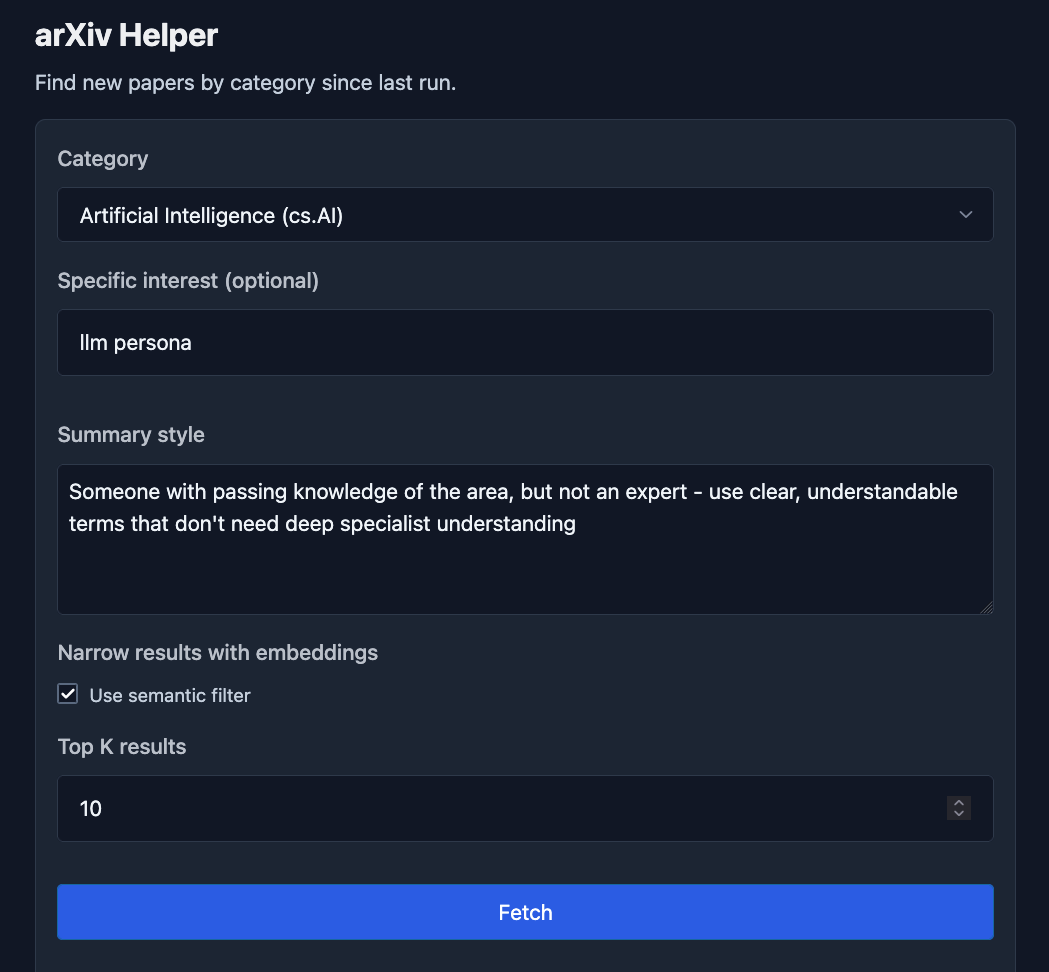
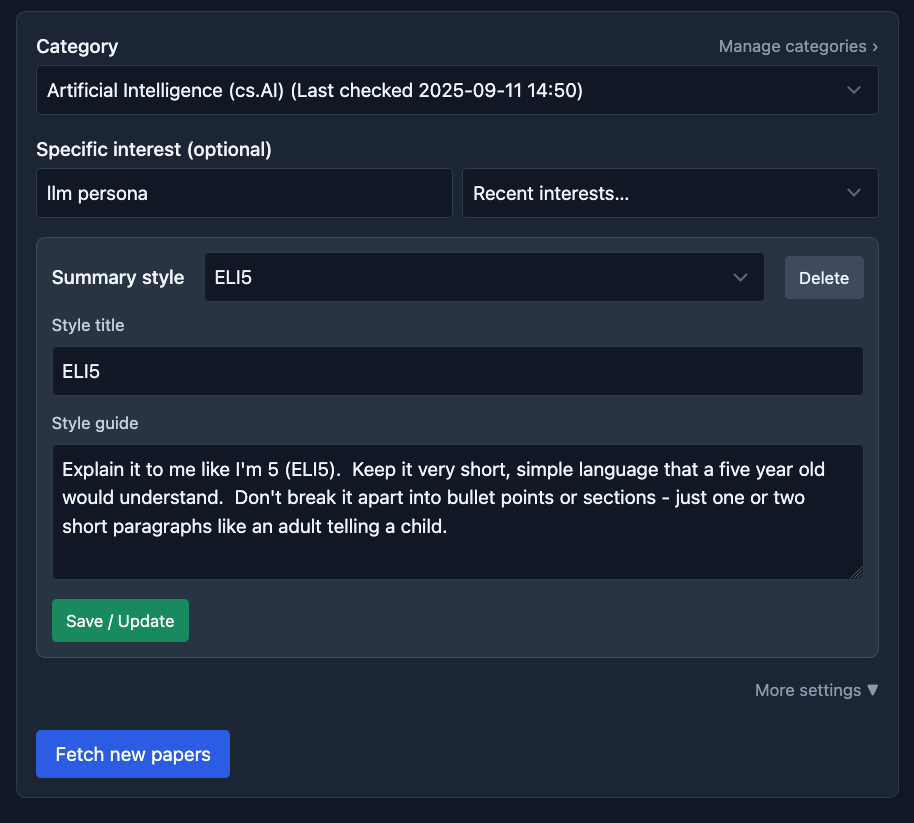
Save options

diff --git a/main.py b/main.py
@@ -190,7 +190,16 @@ def _find_style_index(styles: Dict[str, Any], title: str) -> Optional[int]:
     return None
 
 
-def _upsert_style(state: Dict[str, Any], title: str, body: str) -> None:
+def _upsert_style(
+    state: Dict[str, Any],
+    title: str,
+    body: str,
+    *,
+    verbosity: Optional[str] = None,
+    reasoning: Optional[str] = None,
+    use_embeddings: Optional[str] = None,
+    top_k: Optional[int] = None,
+) -> None:
     styles = _get_styles(state)
     items = styles.get("items")
     if not isinstance(items, list):
@@ -201,9 +210,32 @@ def _upsert_style(state: Dict[str, Any], title: str, body: str) -> None:
     if idx is not None:
         it = items[idx] if idx < len(items) else {}
         it = {**it, "title": title, "body": body, "ts": now_iso, "count": int(it.get("count", 0) or 0) + 1}
+        if verbosity is not None:
+            it["verbosity"] = verbosity
+        if reasoning is not None:
+            it["reasoning"] = reasoning
+        if use_embeddings is not None:
+            it["use_embeddings"] = use_embeddings
+        if top_k is not None:
+            try:
+                it["top_k"] = int(top_k)
+            except Exception:
+                pass
         items[idx] = it
     else:
-        items.insert(0, {"title": title, "body": body, "ts": now_iso, "count": 1})
+        new_item: Dict[str, Any] = {"title": title, "body": body, "ts": now_iso, "count": 1}
+        if verbosity is not None:
+            new_item["verbosity"] = verbosity
+        if reasoning is not None:
+            new_item["reasoning"] = reasoning
+        if use_embeddings is not None:
+            new_item["use_embeddings"] = use_embeddings
+        if top_k is not None:
+            try:
+                new_item["top_k"] = int(top_k)
+            except Exception:
+                pass
+        items.insert(0, new_item)
     _set_styles(state, styles)
 
 
@@ -675,7 +707,14 @@ def category_select(selected: str | None = None, last_checked_labels: Optional[D
 # ---------- Styles management (HTMX partials) ----------
 
 @rt("/styles/save")
-def styles_save(style_title_input: str = "", summary_style: str = ""):
+def styles_save(
+    style_title_input: str = "",
+    summary_style: str = "",
+    verbosity: str = "medium",
+    reasoning: str = "medium",
+    use_embeddings: str = "off",
+    top_k: str = "10",
+):
     state = _load_state()
     title = (style_title_input or "").strip()
     body = (summary_style or "").strip()
@@ -687,21 +726,46 @@ def styles_save(style_title_input: str = "", summary_style: str = ""):
     elif len(title) > 60:
         error = "Style title is too long (max 60 characters)."
     else:
-        _upsert_style(state, title, body)
+        _upsert_style(
+            state,
+            title,
+            body,
+            verbosity=verbosity,
+            reasoning=reasoning,
+            use_embeddings=("on" if use_embeddings == "on" else "off"),
+            top_k=int(top_k or "10"),
+        )
         # Also remember as the preference for convenience
         prefs = _get_prefs(state)
-        prefs["summary_style"] = body
+        prefs.update(
+            {
+                "summary_style": body,
+                "verbosity": verbosity,
+                "reasoning": reasoning,
+                "use_embeddings": ("on" if use_embeddings == "on" else "off"),
+                "top_k": int(top_k or "10"),
+            }
+        )
         _set_prefs(state, prefs)
         _save_state(state)
         saved_msg = f"Saved style: {title}"
 
     # Re-render styles section partial
     saved_styles = _get_styles(state)
-    saved_items: List[Dict[str, str]] = []
+    saved_items: List[Dict[str, Any]] = []
     if isinstance(saved_styles.get("items"), list):
         for it in saved_styles["items"]:
             if isinstance(it, dict) and (it.get("title") and it.get("body")):
-                saved_items.append({"title": str(it["title"]), "body": str(it["body"])})
+                saved_items.append(
+                    {
+                        "title": str(it["title"]),
+                        "body": str(it["body"]),
+                        "verbosity": it.get("verbosity"),
+                        "reasoning": it.get("reasoning"),
+                        "use_embeddings": it.get("use_embeddings"),
+                        "top_k": it.get("top_k"),
+                    }
+                )
 
     def render_styles_section(current_title_val: str, current_body_val: str, error_msg: str | None = None, saved_msg: str | None = None):
         opts = [Option("Select a saved style…", value="", **{"data-title": ""})]
@@ -709,7 +773,21 @@ def styles_save(style_title_input: str = "", summary_style: str = ""):
             t = it.get("title", "")
             b = it.get("body", "")
             sel = (t == current_title_val)
-            opts.append(Option(t, value=b, selected=sel, **{"data-title": t, "title": t}))
+            opts.append(
+                Option(
+                    t,
+                    value=b,
+                    selected=sel,
+                    **{
+                        "data-title": t,
+                        "title": t,
+                        "data-verbosity": str(it.get("verbosity") or ""),
+                        "data-reasoning": str(it.get("reasoning") or ""),
+                        "data-use-embeddings": ("on" if (it.get("use_embeddings") or "on") != "off" else "off"),
+                        "data-top-k": str(it.get("top_k") or ""),
+                    },
+                )
+            )
         controls: List[Any] = []
         if saved_msg:
             controls.append(Div(saved_msg, cls="mb-2 p-2 rounded bg-emerald-50 text-emerald-700 border border-emerald-200 text-sm"))
@@ -726,6 +804,10 @@ def styles_save(style_title_input: str = "", summary_style: str = ""):
                         "var b=document.getElementById('summary_style_input');"
                         "var s=document.getElementById('style_selected_title');"
                         "if(opt){ t.value=opt.dataset.title||''; b.value=opt.value||''; s.value=opt.dataset.title||''; }"
+                        "var v=document.getElementById('verbosity_select'); if(v&&opt){ v.value=opt.dataset.verbosity||v.value; }"
+                        "var r=document.getElementById('reasoning_select'); if(r&&opt){ r.value=opt.dataset.reasoning||r.value; }"
+                        "var k=document.getElementById('top_k_input'); if(k&&opt){ k.value=opt.dataset.topK||k.value; }"
+                        "var e=document.getElementById('use_embeddings_checkbox'); if(e&&opt){ e.checked=(opt.dataset.useEmbeddings!=='off'); }"
                         "})(this)"
                     ),
                     cls=(
@@ -745,7 +827,7 @@ def styles_save(style_title_input: str = "", summary_style: str = ""):
                         "hx-post": "/styles/delete",
                         "hx-target": "#styles_section",
                         "hx-swap": "outerHTML",
-                        "hx-include": "#style_selected_title, #summary_style_input",
+                        "hx-include": "#style_selected_title, #summary_style_input, #verbosity_select, #reasoning_select, #use_embeddings_checkbox, #top_k_input",
                         "hx-confirm": "Delete selected style?",
                     },
                 ),
@@ -786,7 +868,7 @@ def styles_save(style_title_input: str = "", summary_style: str = ""):
                         "hx-post": "/styles/save",
                         "hx-target": "#styles_section",
                         "hx-swap": "outerHTML",
-                        "hx-include": "#style_title_input, #summary_style_input",
+                        "hx-include": "#style_title_input, #summary_style_input, #verbosity_select, #reasoning_select, #use_embeddings_checkbox, #top_k_input",
                     },
                 ),
                 cls=""
@@ -816,11 +898,20 @@ def styles_delete(style_selected_title: str = "", summary_style: str = ""):
             error = f"Style not found: {title}"
 
     saved_styles = _get_styles(state)
-    saved_items: List[Dict[str, str]] = []
+    saved_items: List[Dict[str, Any]] = []
     if isinstance(saved_styles.get("items"), list):
         for it in saved_styles["items"]:
             if isinstance(it, dict) and (it.get("title") and it.get("body")):
-                saved_items.append({"title": str(it["title"]), "body": str(it["body"])})
+                saved_items.append(
+                    {
+                        "title": str(it["title"]),
+                        "body": str(it["body"]),
+                        "verbosity": it.get("verbosity"),
+                        "reasoning": it.get("reasoning"),
+                        "use_embeddings": it.get("use_embeddings"),
+                        "top_k": it.get("top_k"),
+                    }
+                )
 
     def render_styles_section(current_title_val: str, current_body_val: str, error_msg: str | None = None, saved_msg: str | None = None):
         opts = [Option("Select a saved style…", value="", **{"data-title": ""})]
@@ -828,7 +919,21 @@ def styles_delete(style_selected_title: str = "", summary_style: str = ""):
             t = it.get("title", "")
             b = it.get("body", "")
             sel = (t == current_title_val)
-            opts.append(Option(t, value=b, selected=sel, **{"data-title": t, "title": t}))
+            opts.append(
+                Option(
+                    t,
+                    value=b,
+                    selected=sel,
+                    **{
+                        "data-title": t,
+                        "title": t,
+                        "data-verbosity": str(it.get("verbosity") or ""),
+                        "data-reasoning": str(it.get("reasoning") or ""),
+                        "data-use-embeddings": ("on" if (it.get("use_embeddings") or "on") != "off" else "off"),
+                        "data-top-k": str(it.get("top_k") or ""),
+                    },
+                )
+            )
         controls: List[Any] = []
         if saved_msg:
             controls.append(Div(saved_msg, cls="mb-2 p-2 rounded bg-emerald-50 text-emerald-700 border border-emerald-200 text-sm"))
@@ -845,6 +950,10 @@ def styles_delete(style_selected_title: str = "", summary_style: str = ""):
                         "var b=document.getElementById('summary_style_input');"
                         "var s=document.getElementById('style_selected_title');"
                         "if(opt){ t.value=opt.dataset.title||''; b.value=opt.value||''; s.value=opt.dataset.title||''; }"
+                        "var v=document.getElementById('verbosity_select'); if(v&&opt){ v.value=opt.dataset.verbosity||v.value; }"
+                        "var r=document.getElementById('reasoning_select'); if(r&&opt){ r.value=opt.dataset.reasoning||r.value; }"
+                        "var k=document.getElementById('top_k_input'); if(k&&opt){ k.value=opt.dataset.topK||k.value; }"
+                        "var e=document.getElementById('use_embeddings_checkbox'); if(e&&opt){ e.checked=(opt.dataset.useEmbeddings!=='off'); }"
                         "})(this)"
                     ),
                     cls=(
@@ -864,7 +973,7 @@ def styles_delete(style_selected_title: str = "", summary_style: str = ""):
                         "hx-post": "/styles/delete",
                         "hx-target": "#styles_section",
                         "hx-swap": "outerHTML",
-                        "hx-include": "#style_selected_title, #summary_style_input",
+                        "hx-include": "#style_selected_title, #summary_style_input, #verbosity_select, #reasoning_select, #use_embeddings_checkbox, #top_k_input",
                         "hx-confirm": "Delete selected style?",
                     },
                 ),
@@ -905,7 +1014,7 @@ def styles_delete(style_selected_title: str = "", summary_style: str = ""):
                         "hx-post": "/styles/save",
                         "hx-target": "#styles_section",
                         "hx-swap": "outerHTML",
-                        "hx-include": "#style_title_input, #summary_style_input",
+                        "hx-include": "#style_title_input, #summary_style_input, #verbosity_select, #reasoning_select, #use_embeddings_checkbox, #top_k_input",
                     },
                 ),
                 cls=""
@@ -1092,26 +1201,68 @@ def index(category: str | None = None, interest: str | None = None, summary_styl
     recent_interests = _recent_interests(history, cat_code, limit=10)
     recent_styles = _recent_styles(history, limit=10)
     saved_styles = _get_styles(state)
-    saved_items: List[Dict[str, str]] = []
+    saved_items: List[Dict[str, Any]] = []
     if isinstance(saved_styles.get("items"), list):
         for it in saved_styles["items"]:
             if isinstance(it, dict) and (it.get("title") and it.get("body")):
-                saved_items.append({"title": str(it["title"]), "body": str(it["body"])})
+                saved_items.append(
+                    {
+                        "title": str(it["title"]),
+                        "body": str(it["body"]),
+                        "verbosity": it.get("verbosity"),
+                        "reasoning": it.get("reasoning"),
+                        "use_embeddings": it.get("use_embeddings"),
+                        "top_k": it.get("top_k"),
+                    }
+                )
     # Determine current title if the default style matches a saved body
     current_title = ""
+    current_style_obj: Optional[Dict[str, Any]] = None
     for it in saved_items:
         if it.get("body", "") == (default_style or ""):
             current_title = it.get("title", "")
+            current_style_obj = it
             break
+    # If a saved style is active, and query params did not explicitly set these,
+    # adopt the style-specific settings as defaults
+    if current_style_obj is not None:
+        if verbosity is None:
+            default_verbosity = str(current_style_obj.get("verbosity") or default_verbosity)
+        if reasoning is None:
+            default_reasoning = str(current_style_obj.get("reasoning") or default_reasoning)
+        if use_embeddings is None:
+            ue = current_style_obj.get("use_embeddings")
+            if ue in ("on", "off"):
+                default_use_emb = ue
+        if top_k is None:
+            try:
+                tk = int(current_style_obj.get("top_k")) if current_style_obj.get("top_k") is not None else default_top_k
+                default_top_k = tk
+            except Exception:
+                pass
 
     def render_styles_section(current_title_val: str, current_body_val: str, error_msg: str | None = None, saved_msg: str | None = None):
-        # Build a select of saved titles; use option value as body and data-title as title.
+        # Build a select of saved titles; include saved settings as data-* attributes
         opts = [Option("Select a saved style…", value="", **{"data-title": ""})]
         for it in saved_items:
             t = it.get("title", "")
             b = it.get("body", "")
             sel = (t == current_title_val)
-            opts.append(Option(t, value=b, selected=sel, **{"data-title": t, "title": t}))
+            opts.append(
+                Option(
+                    t,
+                    value=b,
+                    selected=sel,
+                    **{
+                        "data-title": t,
+                        "title": t,
+                        "data-verbosity": str(it.get("verbosity") or ""),
+                        "data-reasoning": str(it.get("reasoning") or ""),
+                        "data-use-embeddings": ("on" if (it.get("use_embeddings") or "on") != "off" else "off"),
+                        "data-top-k": str(it.get("top_k") or ""),
+                    },
+                )
+            )
         controls = []
         if saved_msg:
             controls.append(Div(saved_msg, cls="mb-2 p-2 rounded bg-emerald-50 text-emerald-700 border border-emerald-200 text-sm"))
@@ -1128,6 +1279,10 @@ def index(category: str | None = None, interest: str | None = None, summary_styl
                         "var b=document.getElementById('summary_style_input');"
                         "var s=document.getElementById('style_selected_title');"
                         "if(opt){ t.value=opt.dataset.title||''; b.value=opt.value||''; s.value=opt.dataset.title||''; }"
+                        "var v=document.getElementById('verbosity_select'); if(v&&opt){ v.value=opt.dataset.verbosity||v.value; }"
+                        "var r=document.getElementById('reasoning_select'); if(r&&opt){ r.value=opt.dataset.reasoning||r.value; }"
+                        "var k=document.getElementById('top_k_input'); if(k&&opt){ k.value=opt.dataset.topK||k.value; }"
+                        "var e=document.getElementById('use_embeddings_checkbox'); if(e&&opt){ e.checked=(opt.dataset.useEmbeddings!=='off'); }"
                         "})(this)"
                     ),
                     cls=(
@@ -1147,7 +1302,7 @@ def index(category: str | None = None, interest: str | None = None, summary_styl
                         "hx-post": "/styles/delete",
                         "hx-target": "#styles_section",
                         "hx-swap": "outerHTML",
-                        "hx-include": "#style_selected_title, #summary_style_input",
+                        "hx-include": "#style_selected_title, #summary_style_input, #verbosity_select, #reasoning_select, #use_embeddings_checkbox, #top_k_input",
                         "hx-confirm": "Delete selected style?",
                     },
                 ),
@@ -1188,7 +1343,7 @@ def index(category: str | None = None, interest: str | None = None, summary_styl
                         "hx-post": "/styles/save",
                         "hx-target": "#styles_section",
                         "hx-swap": "outerHTML",
-                        "hx-include": "#style_title_input, #summary_style_input",
+                        "hx-include": "#style_title_input, #summary_style_input, #verbosity_select, #reasoning_select, #use_embeddings_checkbox, #top_k_input",
                     },
                 ),
                 cls=""
@@ -1297,7 +1452,7 @@ def index(category: str | None = None, interest: str | None = None, summary_styl
                                 Div(
                                     Div(
                                         Label("Top K results", cls="text-sm font-medium mb-1"),
-                                        Input(type="number", name="top_k", value=str(default_top_k), min="5", max="200", cls=(
+                                        Input(type="number", name="top_k", id="top_k_input", value=str(default_top_k), min="5", max="200", cls=(
                                             "h-9 border rounded px-3 py-1.5 w-full border-slate-300 bg-white text-slate-900 "
                                             "dark:bg-slate-900 dark:text-slate-100 dark:border-slate-700"
                                         )),
@@ -1310,6 +1465,7 @@ def index(category: str | None = None, interest: str | None = None, summary_styl
                                             Option("Medium", value="medium", selected=(default_verbosity == "medium")),
                                             Option("High", value="high", selected=(default_verbosity == "high")),
                                             name="verbosity",
+                                            id="verbosity_select",
                                             cls=(
                                                 "h-9 border rounded px-3 py-1.5 w-full border-slate-300 bg-white text-slate-900 "
                                                 "dark:bg-slate-900 dark:text-slate-100 dark:border-slate-700"
@@ -1325,6 +1481,7 @@ def index(category: str | None = None, interest: str | None = None, summary_styl
                                             Option("Medium", value="medium", selected=(default_reasoning == "medium")),
                                             Option("High", value="high", selected=(default_reasoning == "high")),
                                             name="reasoning",
+                                            id="reasoning_select",
                                             cls=(
                                                 "h-9 border rounded px-3 py-1.5 w-full border-slate-300 bg-white text-slate-900 "
                                                 "dark:bg-slate-900 dark:text-slate-100 dark:border-slate-700"
@@ -1338,6 +1495,7 @@ def index(category: str | None = None, interest: str | None = None, summary_styl
                                     Input(
                                         type="checkbox",
                                         name="use_embeddings",
+                                        id="use_embeddings_checkbox",
                                         checked=(default_use_emb != "off"),
                                         cls=(
                                             "h-4 w-4 mr-2 shrink-0 rounded-sm border-2 border-slate-400 dark:border-slate-500 "
